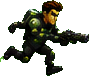
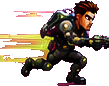
Mold Mission: re-cut TyGuy from the magenta chroma sheet (higher-res, cleaner key)
Per request, disregard the earlier TyGuy art and use the new magenta "Complete
Animation Guide" sheet. Re-cut all player sprites from it (cut_tyguy.py):
player (idle), run, dash, jump, fall, aim, shoot, hurt, reload, victory, climb.

Why magenta is better: it shares no colour with Ty (dark armour / lime accents /
tan skin), so the background is removed GLOBALLY — including the magenta
enclosed by the ladder in the climb pose, which an edge-flood can't reach — and
the frames are higher resolution (~90px vs ~78px) so they're sharper in game. A
light de-spill kills the pink edge fringe.

Replaced the green sheet + its cuts; dropped the superseded green sheet from
pending/. The crouch move-set (from the crouch sheet) is unchanged and still
matches. Draw code and ASSET_NAMES already reference these keys, so no logic
changes were needed.

Verified: python3 games/mold_mission/mold_mission.py --selftest
-> selftest OK: all 5 missions win

Claude-Session: https://claude.ai/code/session_01C7stTX2MiAL5f8VZvZr1zp

diff --git a/games/mold_mission/cut_tyguy.py b/games/mold_mission/cut_tyguy.py
@@ -1,39 +1,38 @@
 #!/usr/bin/env python3
-"""Cut TyGuy's standing / movement / combat sprites from the bright chroma-green
-"TYGUY — Complete Animation Guide" sheet and drop them into assets/, replacing
-the earlier placeholder player art so the WHOLE character is the tactical TyGuy
-(matching the crouch move-set already cut from the crouch sheet).
+"""Cut TyGuy's sprites from the bright MAGENTA "TYGUY — Complete Animation Guide"
+sheet into assets/, so the whole player character is the tactical TyGuy.
 
-Recipe: crop one frame -> flood-fill the solid green background from the edges
--> keep the largest connected shape (drops the cell's label text) -> autocrop.
-`victory` skips keep-largest (its pose splits into two blobs) and instead uses a
-tight box that already excludes the label / panel.
+The magenta chroma shares no colour with Ty (dark armour, lime accents, tan
+skin), so background is removed GLOBALLY (every magenta pixel, including regions
+enclosed by the ladder in the climb pose) rather than by an edge flood. Then
+keep the largest blob (drops the cell's label text), de-spill the pink fringe,
+and autocrop.
 """
 import os
 from collections import deque
 from PIL import Image
 
-SHEET = "art_reference/pending/tyguy_full_animation_guide_green.png"
+SHEET = "art_reference/pending/tyguy_full_animation_guide_magenta.png"
 OUT = "assets"
 
 # (key, (l, t, r, b), keep_largest)
 POSES = [
-    ("player",         (44, 112, 108, 252), True),   # IDLE
-    ("player_run",     (449, 112, 520, 252), True),  # RUN
-    ("player_dash",    (650, 112, 752, 252), True),  # DASH / SPRINT
-    ("player_jump",    (789, 108, 851, 252), True),  # JUMP UP
-    ("player_fall",    (1170, 108, 1245, 254), True),  # JUMP DOWN
-    ("player_aim",     (31, 484, 108, 604), True),   # AIM (IDLE)
-    ("player_shoot",   (183, 484, 322, 604), True),  # SHOOT
-    ("player_hurt",    (983, 484, 1048, 604), True),  # TAKE DAMAGE (LIGHT)
-    ("player_victory", (22, 768, 108, 858), False),  # VICTORY
-    ("player_reload",  (450, 484, 520, 604), True),  # RELOAD (out of energy)
-    ("player_climb",   (1024, 254, 1070, 348), False),  # CLIMB LADDER (front, frame 2)
+    ("player",         (47, 132, 103, 236), True),   # IDLE
+    ("player_run",     (426, 132, 508, 236), True),  # RUN
+    ("player_dash",    (694, 132, 803, 236), True),  # DASH / SPRINT
+    ("player_jump",    (850, 128, 913, 236), True),  # JUMP UP
+    ("player_fall",    (1181, 128, 1257, 238), True),  # JUMP DOWN
+    ("player_aim",     (24, 502, 104, 598), True),   # AIM (IDLE)
+    ("player_shoot",   (197, 502, 335, 598), True),  # SHOOT
+    ("player_hurt",    (1009, 502, 1063, 598), True),  # TAKE DAMAGE (LIGHT)
+    ("player_reload",  (446, 502, 512, 598), True),  # RELOAD
+    ("player_victory", (34, 770, 92, 852), False),   # VICTORY
+    ("player_climb",   (997, 256, 1044, 344), False),  # CLIMB LADDER (front)
 ]
 
 
 def is_bg(r, g, b):
-    return b < 48 and g > 60 and (g - r) > 28 and (g - b) > 45
+    return r > 150 and g < 120 and b > 72 and (r - g) > 55
 
 
 def keep_largest(alpha, w, h):
@@ -69,37 +68,27 @@ def cut(sheet, box, klargest):
     crop = sheet.crop(box).convert("RGB")
     w, h = crop.size
     px = crop.load()
-    bg = bytearray(w * h)
-    q = deque()
-    for x in range(w):
-        for y in (0, h - 1):
-            i = y * w + x
-            if not bg[i] and is_bg(*px[x, y]):
-                bg[i] = 1
-                q.append((x, y))
-    for y in range(h):
-        for x in (0, w - 1):
-            i = y * w + x
-            if not bg[i] and is_bg(*px[x, y]):
-                bg[i] = 1
-                q.append((x, y))
-    while q:
-        x, y = q.popleft()
-        for dx, dy in ((1, 0), (-1, 0), (0, 1), (0, -1)):
-            nx, ny = x + dx, y + dy
-            if 0 <= nx < w and 0 <= ny < h:
-                j = ny * w + nx
-                if not bg[j] and is_bg(*px[nx, ny]):
-                    bg[j] = 1
-                    q.append((nx, ny))
-    alpha = bytearray(0 if bg[i] else 255 for i in range(w * h))
+    # global background removal (Ty has no magenta pixels)
+    alpha = bytearray(0 if is_bg(*px[x, y]) else 255
+                      for y in range(h) for x in range(w))
     if klargest:
         alpha = keep_largest(alpha, w, h)
     out = Image.new("RGBA", (w, h))
     op = out.load()
     for y in range(h):
         for x in range(w):
-            op[x, y] = ((*px[x, y], 255) if alpha[y * w + x] else (0, 0, 0, 0))
+            if alpha[y * w + x]:
+                r, g, b = px[x, y]
+                edge = (x == 0 or y == 0 or x == w - 1 or y == h - 1
+                        or not alpha[y * w + x - 1] or not alpha[y * w + x + 1]
+                        or (y > 0 and not alpha[(y - 1) * w + x])
+                        or (y < h - 1 and not alpha[(y + 1) * w + x]))
+                if edge and r > g + 22 and r > b + 12:   # de-spill pink fringe
+                    r = min(r, int((g + b) * 0.72) + 20)
+                    b = min(b, g + 30)
+                op[x, y] = (r, g, b, 255)
+            else:
+                op[x, y] = (0, 0, 0, 0)
     bb = out.getbbox()
     return out.crop(bb) if bb else out
 

diff --git a/START_HERE.md b/START_HERE.md
@@ -80,12 +80,13 @@ python3 mold_mission.py --selftest # must print: selftest OK: all 5 missions win
 ### 🦸 TyGuy character art (unified)
 Ty is now the **tactical TyGuy** everywhere. Standing / run / dash / jump / fall
 / aim / shoot / hurt / victory / reload / ladder-climb were cut from the bright
-chroma-green `art_reference/pending/tyguy_full_animation_guide_green.png` (see
-`cut_tyguy.py`) and the crouch move-set from the crouch sheet — one consistent
-character in every pose (no more blue-kid-standing vs tactical-crouch mismatch).
-`player_climb` shows front-on while on a ladder (ladders recoloured to warm
-wood so the pose's own grip blends), and `player_reload` shows when Ty stands
-with his energy drained.
+**magenta** chroma sheet
+`art_reference/pending/tyguy_full_animation_guide_magenta.png` (see
+`cut_tyguy.py` — magenta shares no colour with Ty, so it keys cleanest and cuts
+at higher res) and the crouch move-set from the crouch sheet — one consistent
+character in every pose. `player_climb` shows front-on while on a ladder
+(ladders recoloured to warm wood so the pose's own grip blends), and
+`player_reload` shows when Ty stands with his energy drained.
 
 ### 🕹 Mega Man feel (moves · levels · buttons)
 - **Moves:** variable-height jump (hold higher / tap hop) + double jump; the
